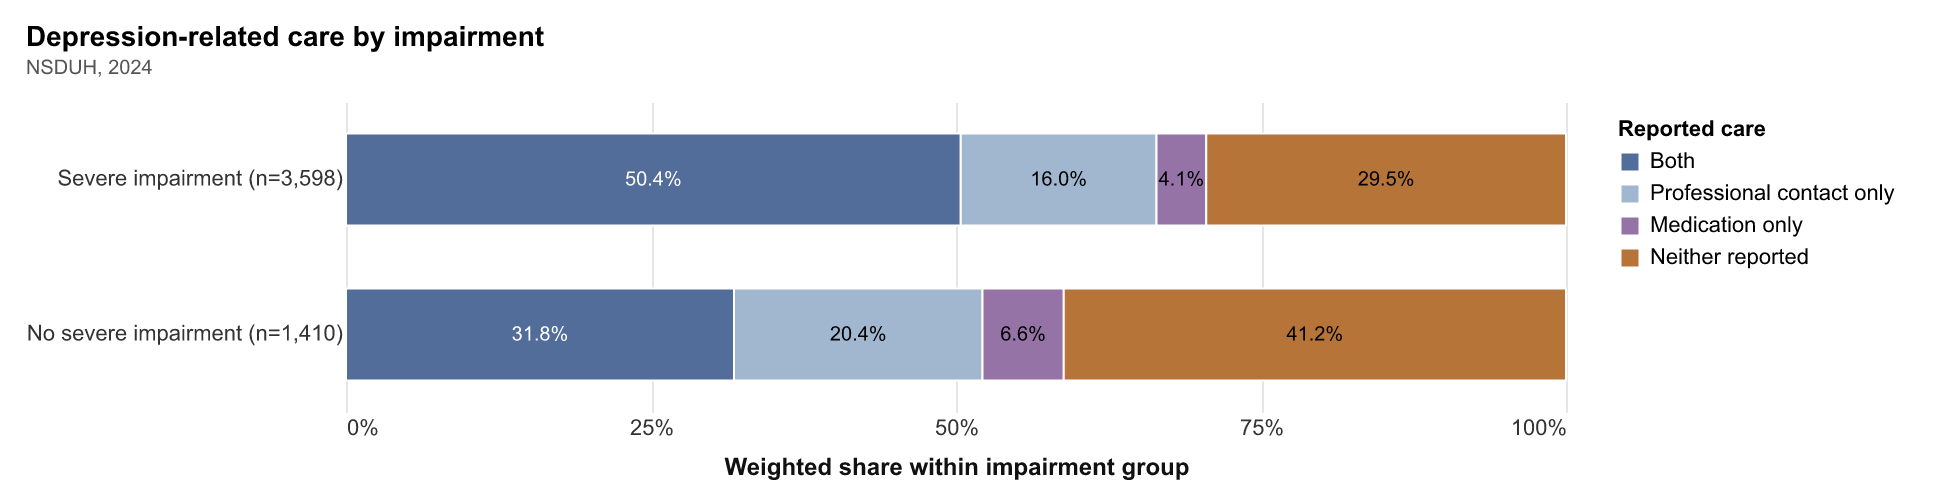
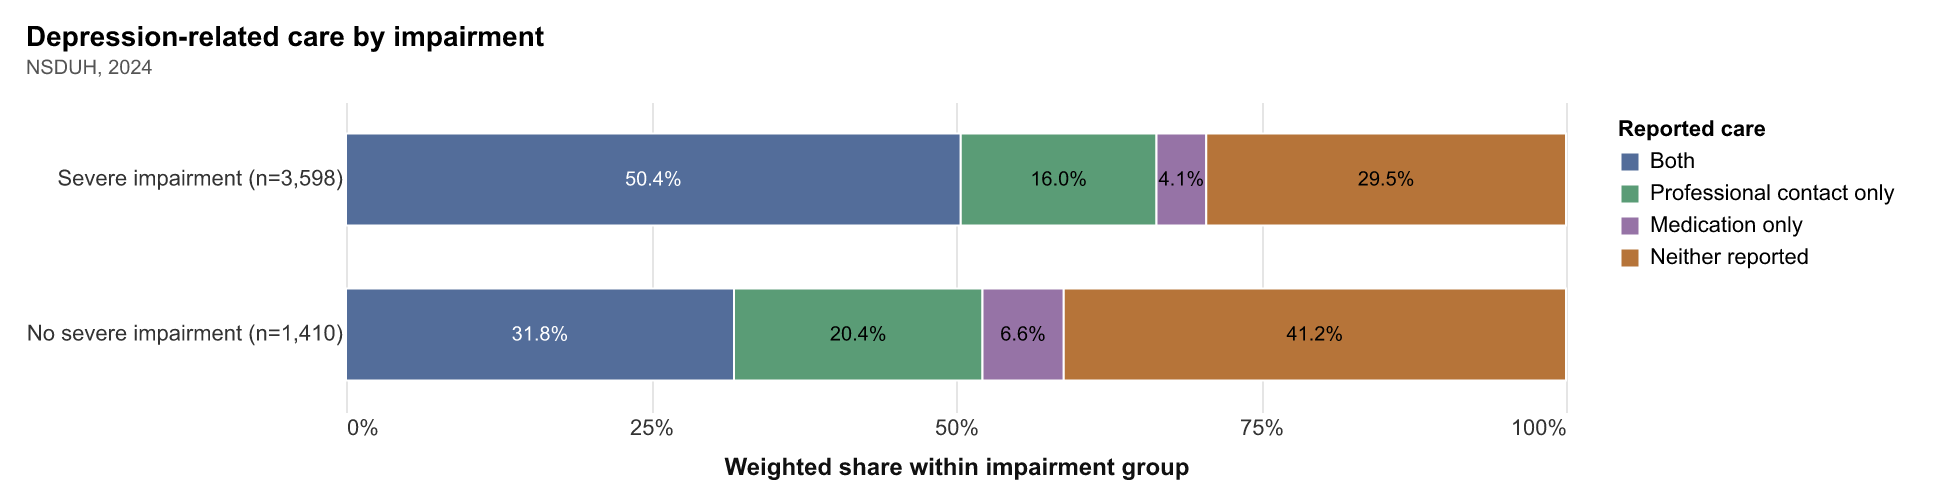
Distinguish care categories with separate hues

Changed region(s): [[0.3719, 0.5677, 0.5269, 0.7769], [0.4959, 0.2689, 0.6198, 0.4482], [0.8368, 0.3586, 0.8678, 0.4183]]

diff --git a/static-viz-project/milestone2_draft/README.md b/static-viz-project/milestone2_draft/README.md
@@ -16,7 +16,7 @@ The chart functions use explicit encodings, layers, facets, normalized stacks, a
 
 The figures are intended to be read together. Each keeps a short source line; shared methods appear once in the notebook introduction and draft, with figure-specific context in the accompanying text.
 
-One shared [ColorBrewer Dark2 palette](https://colorbrewer2.org/?type=qualitative&scheme=Dark2&n=6) assigns a fixed hue to each disorder in Figures 01, 03, 04, 05, 06, and 08. The assignments are defined once in `DISORDER_COLORS`. In the combination plot, colored dots identify disorders present, pale gray dots indicate disorders absent, and faint row bands repeat the fixed disorder colors. Gray bars represent exact combinations. In Figure 08, faint backgrounds identify each disorder, respondent counts sit beneath the score labels in every panel, and solid circles and dashed triangles distinguish professional care and antidepressant use. Heatmap colors represent numeric percentages, and the 2024 figures use a separate palette for care categories, with orange consistently identifying neither care form. Figure 04 aligns six interference distributions in shaded rows, with observed-score dots and gently curved guides. Percentage labels sit inside the matching row backgrounds, and every row uses the same scale. Figure 05 places three domain markers per disorder on one shared axis; shapes identify domains, while connecting lines span the lowest and highest domain averages. Small multiples share their scales and bar lengths start at zero. The alluvial remains optional because crossing translucent ribbons make exact comparisons difficult; Figure 11 provides the direct comparison with uncertainty.
+One shared [ColorBrewer Dark2 palette](https://colorbrewer2.org/?type=qualitative&scheme=Dark2&n=6) assigns a fixed hue to each disorder in Figures 01, 03, 04, 05, 06, and 08. The assignments are defined once in `DISORDER_COLORS`. In the combination plot, colored dots identify disorders present, pale gray dots indicate disorders absent, and faint row bands repeat the fixed disorder colors. Gray bars represent exact combinations. In Figure 08, faint backgrounds identify each disorder, respondent counts sit beneath the score labels in every panel, and solid circles and dashed triangles distinguish professional care and antidepressant use. Heatmap colors represent numeric percentages, and Figure 09 uses blue, green, purple, and orange for its four care categories; orange consistently identifies neither care form across the 2024 figures. Figure 04 aligns six interference distributions in shaded rows, with observed-score dots and gently curved guides. Percentage labels sit inside the matching row backgrounds, and every row uses the same scale. Figure 05 places three domain markers per disorder on one shared axis; shapes identify domains, while connecting lines span the lowest and highest domain averages. Small multiples share their scales and bar lengths start at zero. The alluvial remains optional because crossing translucent ribbons make exact comparisons difficult; Figure 11 provides the direct comparison with uncertainty.
 
 ## Run
 
